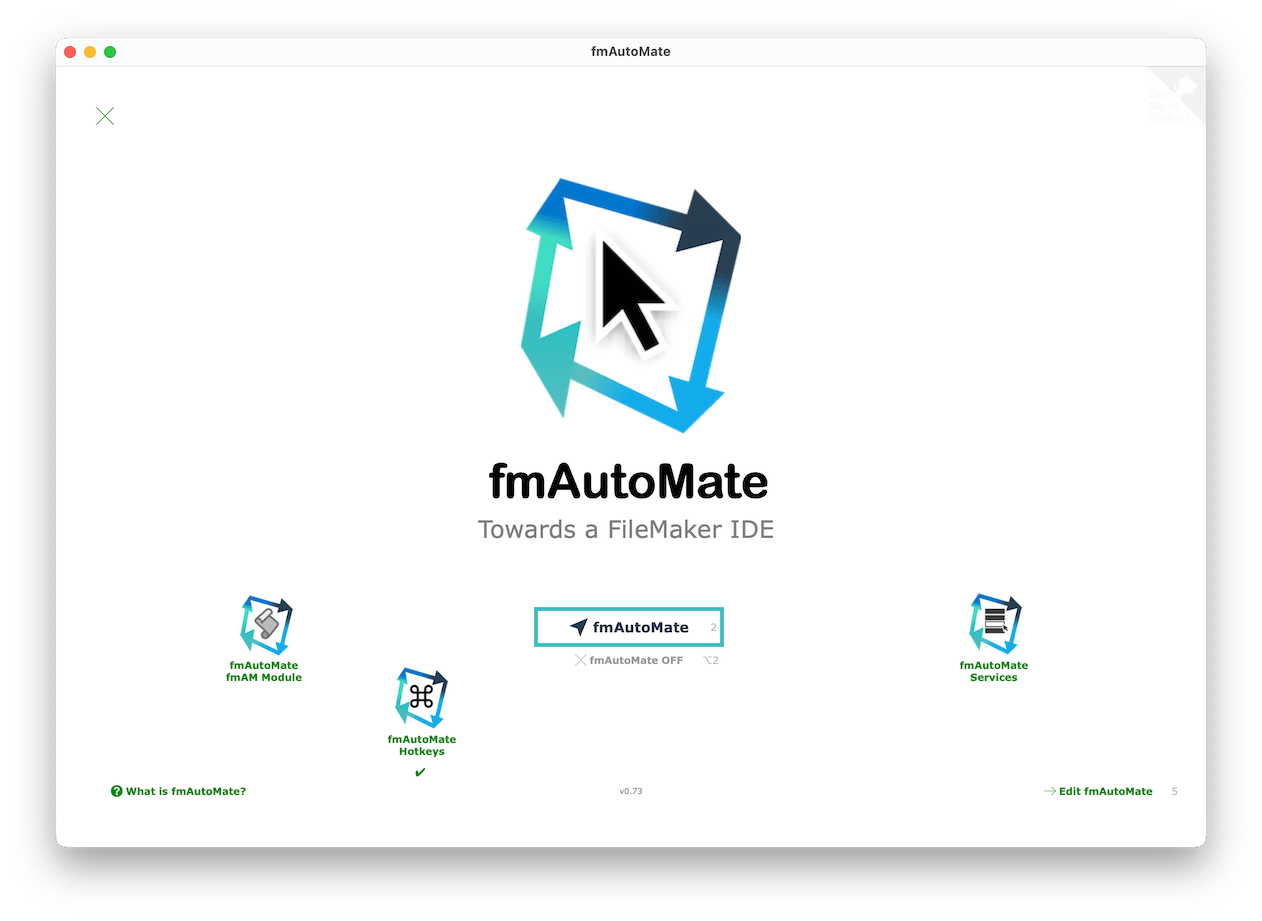
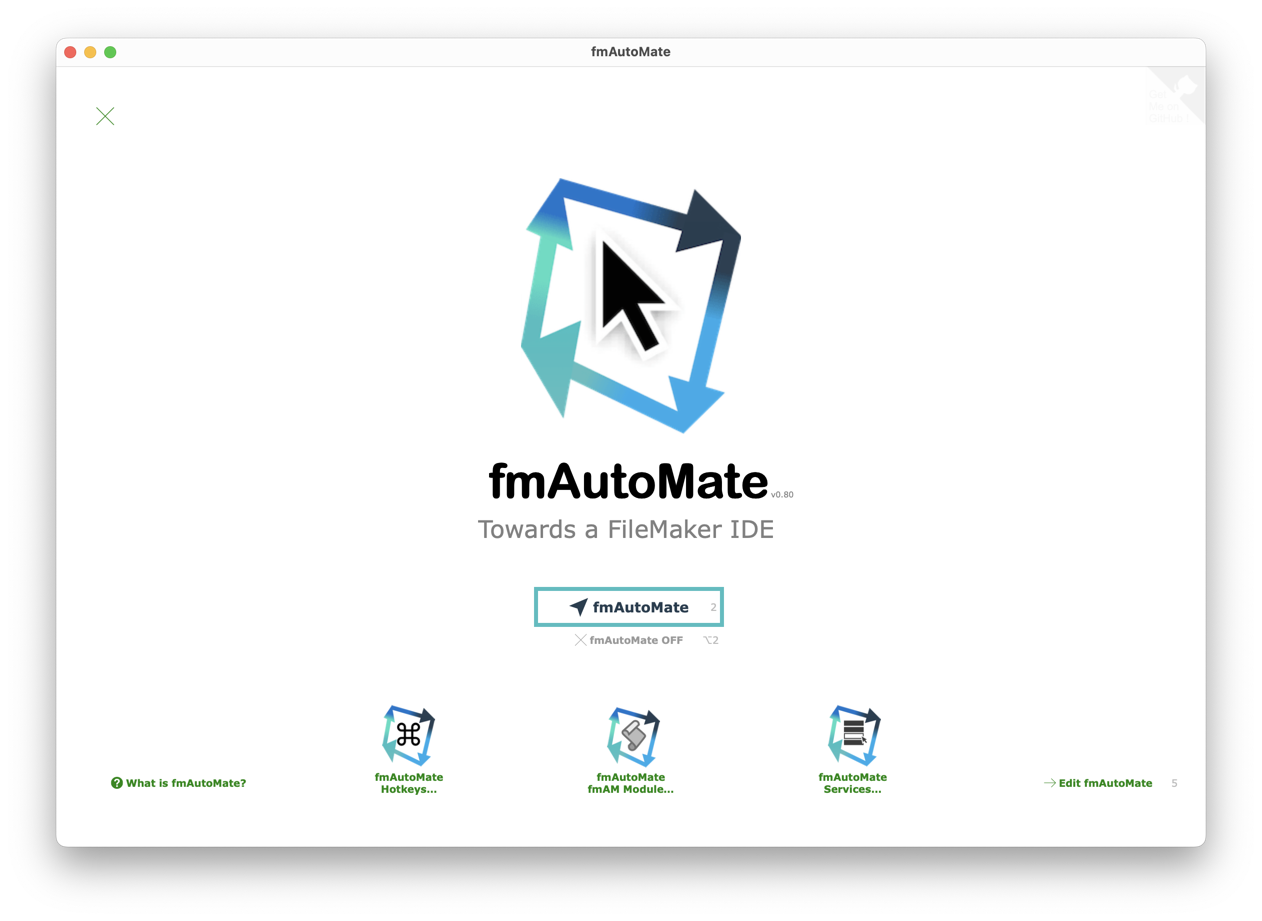
fmautomate installation and services

diff --git a/fmautomate.md b/fmautomate.md
@@ -26,16 +26,20 @@ A tool for FileMaker developers which extends and automates your script workspac
 
 fmAutoMate comprises
 
-1. the main [install fmAutoMate](#install-fmautomate) function, which 
+1. the main [install fmAutoMate](#install-fmautomate) function, which
    - installs the [fmAutoMate Context Menus]
      - extends the `Script Workspace` with a [context menu](#an-extension-of-mbs-context-menus) full of all kinds of useful and powerful functions
      - provides a [context menu in layout mode](fmautomate-context-menus.html#fmautomate-layout-workspace-context-menu)
      - provides a [context menu in browse mode](fmautomate-context-menus.html#fmautomate-browse-mode-context-menu)
-   - provides keyboard shortcuts ('`HotKeys`') to bring these functions to your fingertips
-   - extends the entire FileMaker GUI by introducing [Extended HotKey functions](#fmautomate-extended-hotkeys) <kbd>⌃</kbd><kbd>⌘</kbd><kbd>K</kbd>)
-2. the [fmAM Script Module](#fmautomate-fmam-script-module)
+     - which add useful functions to the right-click context menus in various FileMaker workspaces
+2. [fmAutomate Hot Keys]
+   - keyboard shortcuts *anywhere* in FileMaker Pro
+     - perform select fmAutoMate context menu functions
+     - bring power to your finger tips!
+   - extend the entire FileMaker GUI by introducing [Extended HotKey functions](#fmautomate-extended-hotkeys) <kbd>⌃</kbd><kbd>⌘</kbd><kbd>K</kbd>)
+3. the [fmAM Script Module](#fmautomate-fmam-script-module)
    - which adds even more functions to the context menus
-3. [fmAutomate Services](#fmautomate-services)
+4. [fmAutomate Services](#fmautomate-services)
    - which provide (text formatting) functionality in the Mac OS services context menu in text fields throughout your system.
 
 ## Install fmAutoMate

diff --git a/fmautomate-services.md b/fmautomate-services.md
@@ -1,6 +1,6 @@
 ---
 title: fmAutoMate Services
-strapline: FIXME
+strapline: Power to your entire Mac
 parent: fmAutoMate
 nav_order: 0300
 layout: default
@@ -13,3 +13,31 @@ layout: default
 # {{page.title}}
 
 {{page.strapline}}
+
+![Mac](assets/images/mac.png){: .float-front-right .w-48}
+
+fmAutoMate Services extend the power of fmAutoMate beyond the bounds of FileMaker and brings context menu functionality to your entire Mac!
+
+fmAutomate Services are Mac OS services that can be reached from the `Right click > Context menu > Services  menu` in text fields throughout your system.
+
+Here is an example of using fmAutoMate Services in TextMate to format the selected text:
+
+![fmAutoMate Services in TextMate editor](/assets/images/fmautomate-services-in-textmate.png)
+
+## Install fmAutoMate Services
+
+Click `[fmAutoMate Services…]`
+: to open the information popover
+
+Press `[Install fmAutoMate Services…]`
+: to try to install the services
+
+If that fails
+
+Click `[fmAM-Services]`
+: to open the folder and install the services manually by clicking on the files.
+
+If the folder is not present donload the latest release from [GitHub Releases](https://github.com/mrwatson-de/fmautomate/releases) again to get the full release including subfolders.
+
+Press `[Mac Services]`
+: to open the services folder on your mac to manage what is already installed
